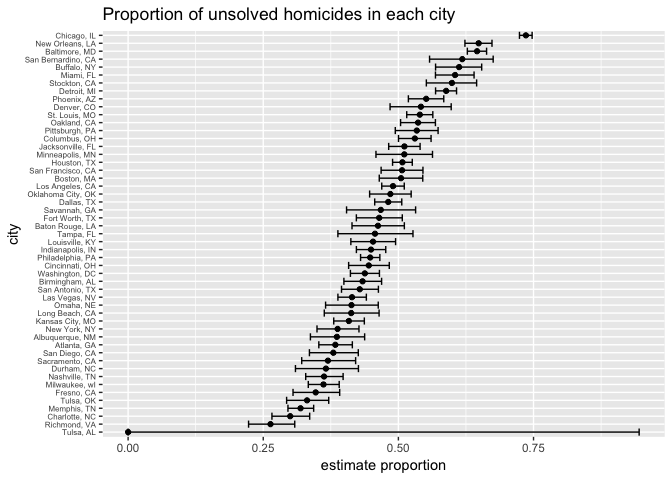
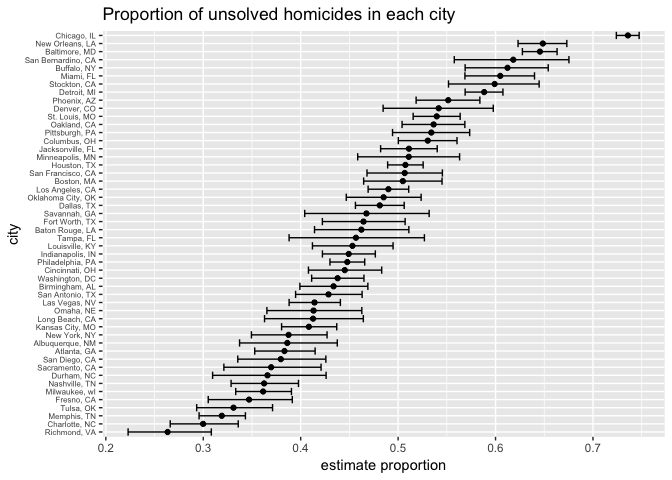
update unsolved column

Changed region(s): [[0.0312, 0.0625, 1.0, 0.9375], [0.9062, 0.0625, 0.9688, 0.0938], [0.1562, 0.9062, 0.2188, 0.9375]]

diff --git a/p8105_hw5_tt2714.md b/p8105_hw5_tt2714.md
@@ -48,7 +48,8 @@ homicide_citystate = homicide %>%
   mutate(disposition = gsub('Closed by arrest', 'homicide', disposition), 
          disposition = gsub('Closed without arrest|Open/No arrest', 'unsolved', disposition)) %>% 
   group_by(city_state, disposition) %>% 
-  summarize(count = n()) %>% spread(disposition, count) %>% mutate(unsolved = replace_na(unsolved, 0), total = homicide + unsolved)
+  summarize(count = n()) %>% spread(disposition, count) %>% mutate(unsolved = replace_na(unsolved, 0), total = homicide + unsolved) %>% 
+  filter(unsolved > 0)
 ```
 
 The raw dataset provides 12 columns, describing the incident id,
